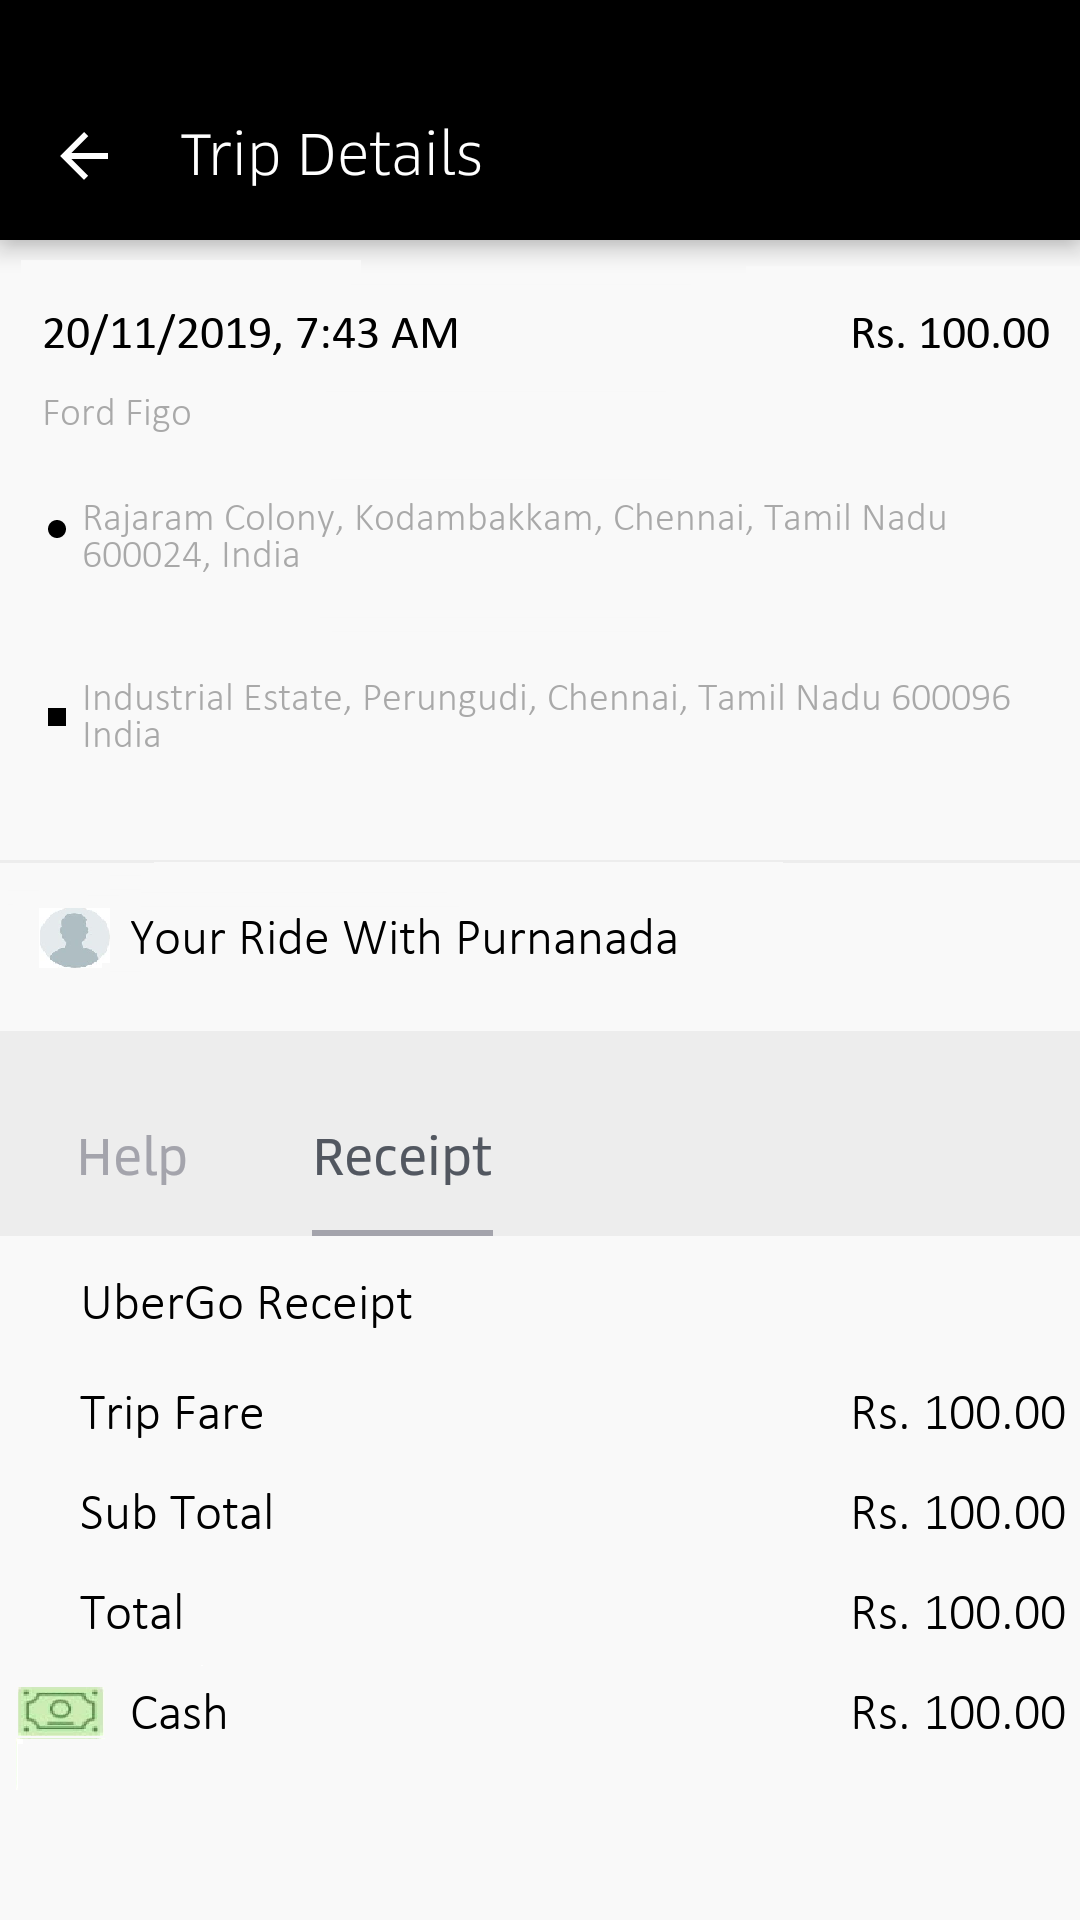
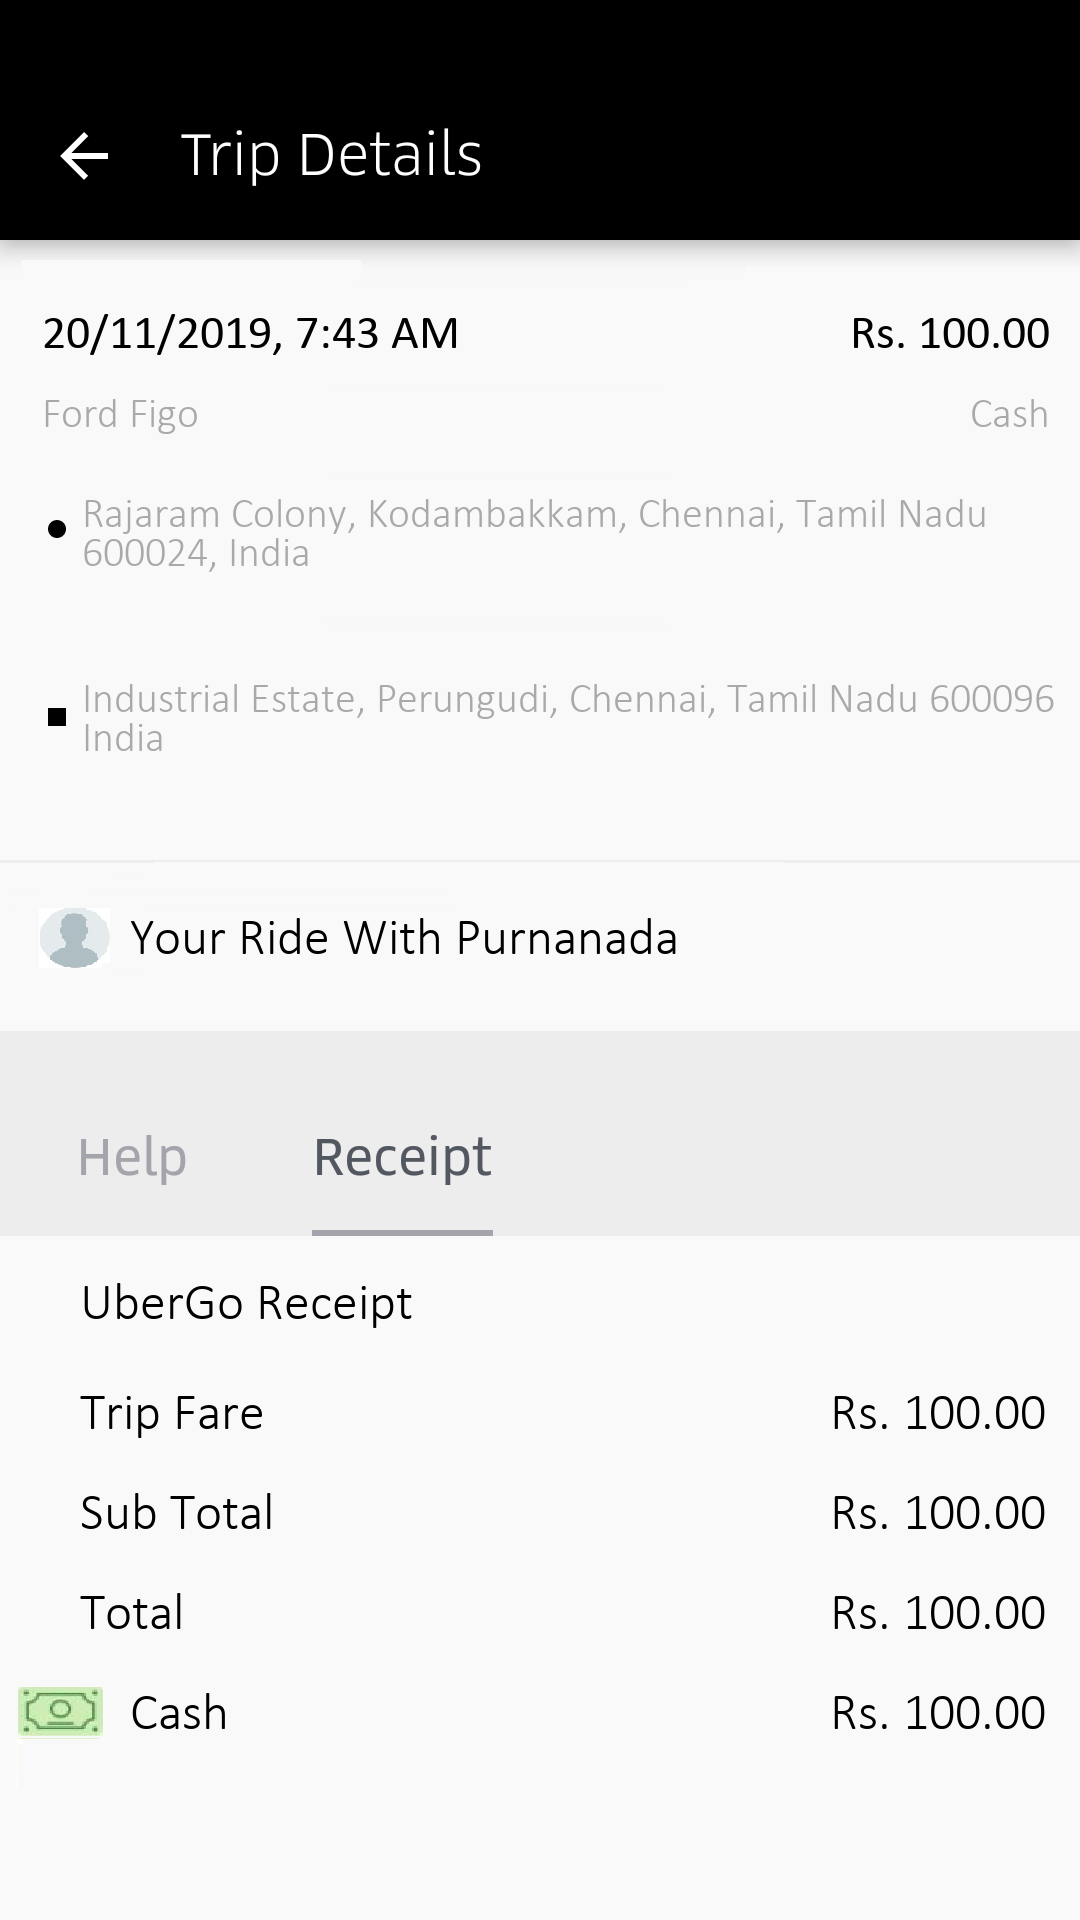
not bad except the rupee symbol

diff --git a/main.py b/main.py
@@ -28,7 +28,7 @@ sheet.cell_value(0, 0)
 # dateTime,amt
 fontCR = ImageFont.truetype('fonts/Calibri_Regular.ttf', size=48, encoding="unic")
 # carType/Addr
-fontCL = ImageFont.truetype('fonts/Calibri_Light.ttf', size=40, encoding="unic")
+fontCL = ImageFont.truetype('fonts/Calibri_Light.ttf', size=42, encoding="unic")
 # rest
 fontCLB = ImageFont.truetype('fonts/Calibri_Light.ttf', size=52, encoding="unic")
 white = 'rgb(255, 255, 255)' # white color
@@ -50,13 +50,14 @@ for row in range(1,sheet.nrows):
     # for datetime
     draw.text((42, 312), dateTime, fill=black, font=fontCR)
     draw.text((850, 312), amount, fill=black, font=fontCR)
-    draw.text((850, 1390), amount, fill=black, font=fontCLB)
-    draw.text((850, 1490), amount, fill=black, font=fontCLB)
-    draw.text((850, 1590), amount, fill=black, font=fontCLB)
-    draw.text((850, 1690), amount, fill=black, font=fontCLB)
+    draw.text((830, 1390), amount, fill=black, font=fontCLB)
+    draw.text((830, 1490), amount, fill=black, font=fontCLB)
+    draw.text((830, 1590), amount, fill=black, font=fontCLB)
+    draw.text((830, 1690), amount, fill=black, font=fontCLB)
     draw.text((42, 395), carName, fill=grey, font=fontCL)
+    draw.text((970, 395), "Cash", fill=grey, font=fontCL)
     x = 82
-    y = 500
+    y = 495
     for line in fromAdd:
         draw.text((x, y), line, fill=grey, font=fontCL)
         y = y + fontCL.getsize('hg')[1]
